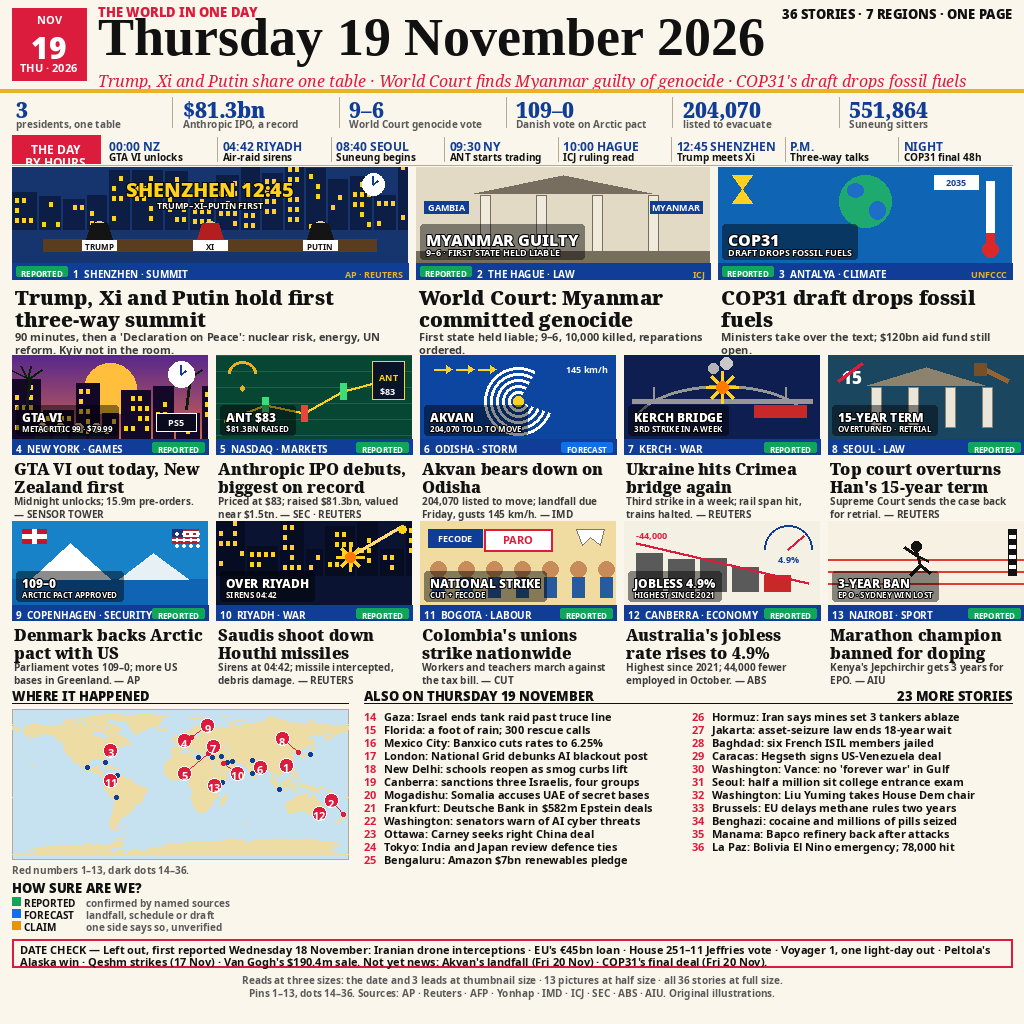
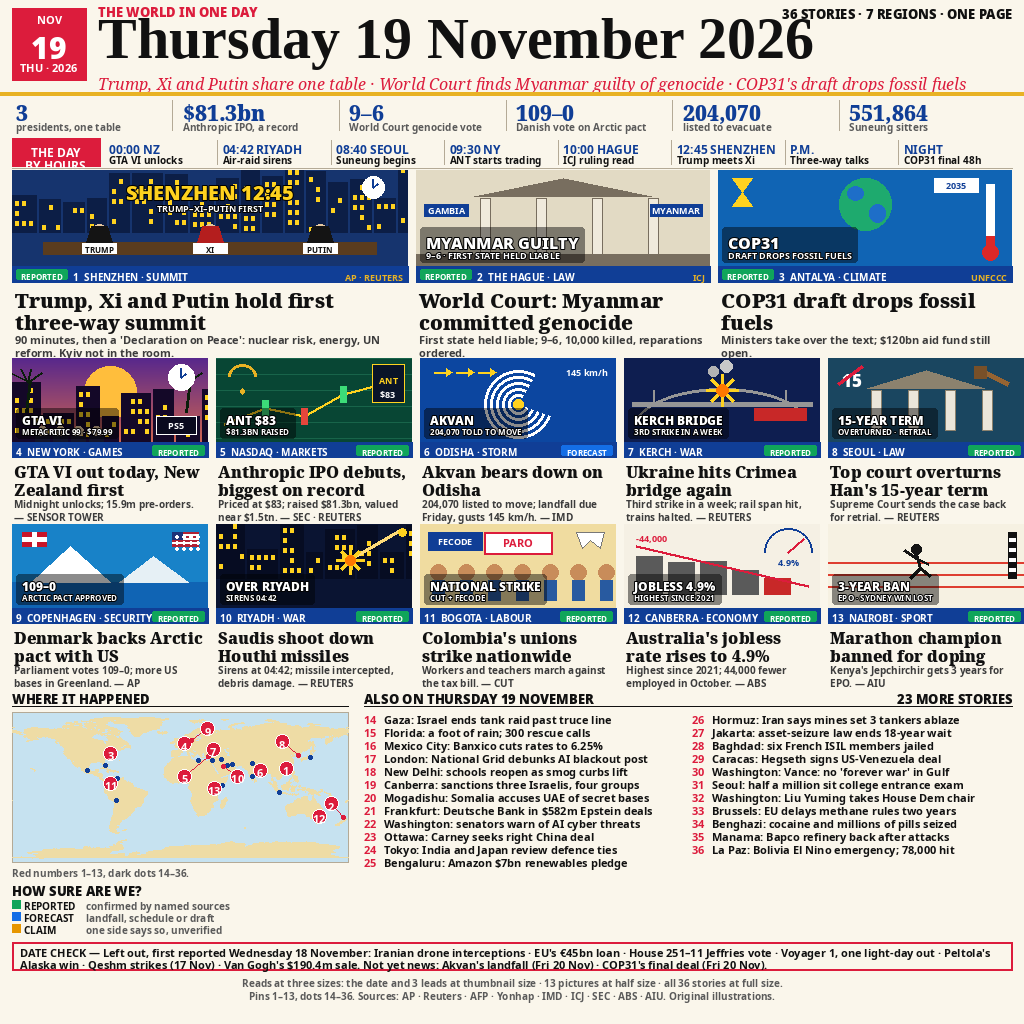
v12: masthead date 4/5 of v10 (Liberation Serif Bold 58px), masthead band 0-95, all bands shifted +3 from v11

Changed region(s): [[0.0, 0.0, 1.0, 1.0]]

diff --git a/draw.py b/draw.py
@@ -1,12 +1,13 @@
 #!/usr/bin/env python3
-"""news-image-20261119 v11: 36 stories, newspaper front page after the top 1.
+"""news-image-20261119 v12: 36 stories, newspaper front page after the top 1.
 Draws entry.png (1024x1024, deterministic) from world.geo.json only.
-v11 vs v10: masthead date shrunk to 3/4 (user order 2026-11-20 15:36 WIB:
-"Perkecil ke 3/4. Untuk Thursday") — LiberationSerif-Bold 72px -> 54px,
-measured 667px wide (was 889px). Masthead band back to 0-92 (kicker y 3,
-title drawn at y 6, red deck line y 69, gold rule 89); every band below
-shifted -15px (stats 93, timeline 135, heroes 167, smalls 355, map 687, date
-check 939, footer 973, ending ~996).
+v12 vs v11: user said "No no no, balikan lagi ke yang sebelumnya. Untuk font
+Thursday kita perkecil jadi 4/5" — revert the v11 shrink; Thursday font is
+4/5 of v10's 72px = 57.6 -> 58px LiberationSerif-Bold (Times, same face as
+top 1), measured 716px wide (v10: 889px, v11: 667px). Masthead band 0-95
+(kicker y 3, title drawn at y 6, red deck line y 72, gold rule 92); every
+band below shifted +3px from v11 (stats 96, timeline 138, heroes 170, smalls
+358, map 690, date check 942, footer 976, ending ~999).
 Run: python3 draw.py  -> writes entry.png in this directory."""
 import json
 import math
@@ -35,7 +36,7 @@ def font(name, size, base=FD):
     return ImageFont.truetype(os.path.join(base, name), size)
 
 
-F_TITLE = font("LiberationSerif-Bold.ttf", 54, FLIB)
+F_TITLE = font("LiberationSerif-Bold.ttf", 58, FLIB)
 F_EYE = font("NotoSans-Black.ttf", 13, FNOTO)
 F_DECKLINE = font("NotoSerif-Italic.ttf", 16, FNOTO)
 F_DATE = font("NotoSans-Black.ttf", 30, FNOTO)
@@ -627,45 +628,45 @@ def main():
     img = Image.new("RGB", (W, H), PAPER)
     d = ImageDraw.Draw(img)
 
-    # ---- masthead 0-92: date in the top-1 face (Liberation Serif Bold = Times) ----
+    # ---- masthead 0-95: date in the top-1 face (Liberation Serif Bold = Times) ----
     d.rectangle([12, 8, 86, 80], fill=RED)
     d.text((49, 12), "NOV", font=F_DATE2, fill="white", anchor="ma")
     d.text((49, 26), "19", font=F_DATE, fill="white", anchor="ma")
     d.text((49, 60), "THU \u00b7 2026", font=F_DATE2, fill="white", anchor="ma")
     d.text((98, 3), "THE WORLD IN ONE DAY", font=F_EYE, fill=RED)
     d.text((98, 6), "Thursday 19 November 2026", font=F_TITLE, fill=INK)
-    d.text((98, 69), "Trump, Xi and Putin share one table \u00b7 World Court finds "
+    d.text((98, 72), "Trump, Xi and Putin share one table \u00b7 World Court finds "
            "Myanmar guilty of genocide \u00b7 COP31's draft drops fossil fuels",
            font=F_DECKLINE, fill=RED)
     d.text((1012, 5), "36 STORIES \u00b7 7 REGIONS \u00b7 ONE PAGE",
            font=F_EYE, fill=INK, anchor="ra")
-    d.rectangle([0, 89, W, 92], fill=GOLD)
+    d.rectangle([0, 92, W, 95], fill=GOLD)
 
-    # ---- big-numbers strip 93-131 ----
+    # ---- big-numbers strip 96-134 ----
     sw6 = (W - 24) / 6.0
     for si, (val, cap) in enumerate(STATS):
         sx = 12 + si * sw6
         if si > 0:
-            d.line([sx - 6, 97, sx - 6, 127], fill=RULE, width=1)
-        d.text((sx + 4, 95), val, font=F_STATB, fill=NAVY)
-        d.text((sx + 4, 117), cap, font=F_STATC, fill=GREY)
+            d.line([sx - 6, 100, sx - 6, 130], fill=RULE, width=1)
+        d.text((sx + 4, 98), val, font=F_STATB, fill=NAVY)
+        d.text((sx + 4, 120), cap, font=F_STATC, fill=GREY)
 
-    # ---- THE DAY BY HOURS timeline 135-163 ----
-    d.rectangle([12, 135, 100, 163], fill=RED)
-    d.text((56, 141), "THE DAY", font=F_TTIME, fill="white", anchor="ma")
-    d.text((56, 154), "BY HOURS", font=F_TTIME, fill="white", anchor="ma")
+    # ---- THE DAY BY HOURS timeline 138-166 ----
+    d.rectangle([12, 138, 100, 166], fill=RED)
+    d.text((56, 144), "THE DAY", font=F_TTIME, fill="white", anchor="ma")
+    d.text((56, 157), "BY HOURS", font=F_TTIME, fill="white", anchor="ma")
     bx = 104
     bw = (W - 12 - bx) / 8.0
     for i, (t, txt) in enumerate(TIMELINE):
         cx = bx + i * bw
         if i > 0:
-            d.line([cx, 137, cx, 161], fill=RULE, width=1)
-        d.text((cx + 5, 138), t, font=F_TTIME, fill=NAVY)
-        d.text((cx + 5, 150), txt, font=F_TTEXT, fill=INK)
-    d.line([12, 165, W - 12, 165], fill=RULE, width=1)
+            d.line([cx, 140, cx, 164], fill=RULE, width=1)
+        d.text((cx + 5, 141), t, font=F_TTIME, fill=NAVY)
+        d.text((cx + 5, 153), txt, font=F_TTEXT, fill=INK)
+    d.line([12, 168, W - 12, 168], fill=RULE, width=1)
 
-    # ---- heroes 167-349: lead 396 wide, rails 294 (hierarchy, not equal thirds) ----
-    hy = 167
+    # ---- heroes 170-352: lead 396 wide, rails 294 (hierarchy, not equal thirds) ----
+    hy = 170
     hws = [396, 294, 294]
     for i, (num, reg, topic, src, status, head, deck, big, small, key) in enumerate(FRONT[:3]):
         hw = hws[i]
@@ -696,14 +697,14 @@ def main():
             d.text((cx + 3, hy + 116 + len(lines) * 22 + 2 + j * 13),
                    ln, font=F_DECK, fill=(60, 60, 60))
 
-    # ---- smalls 355-681 (2 rows x 5, image 196x84) ----
+    # ---- smalls 358-684 (2 rows x 5, image 196x84) ----
     sw_ = 196
     for r in range(2):
         for c in range(5):
             k = 3 + r * 5 + c
             num, reg, topic, src, status, head, deck, big, small, key = FRONT[k]
             cx = 12 + c * (sw_ + 8)
-            cy = 355 + r * 166
+            cy = 358 + r * 166
             im = art_image(key, sw_, 84)
             idd = ImageDraw.Draw(im)
             art_text(im, idd, 0, 0, sw_, 84, big, small, F_LBL2, F_LBL2_S)
@@ -723,8 +724,8 @@ def main():
                 d.text((cx + 2, cy + 102 + len(lines) * 18 + 1 + j * 13),
                        ln, font=F_DECK_S, fill=(60, 60, 60))
 
-    # ---- map + also 687-927 (map taller, also-list roomier) ----
-    my = 687
+    # ---- map + also 690-930 (map taller, also-list roomier) ----
+    my = 690
     d.text((12, my), "WHERE IT HAPPENED", font=F_SEC, fill=INK)
     d.line([12, my + 16, 348, my + 16], fill=INK, width=1)
     d.rectangle([12, my + 22, 348, my + 172], fill=OCEAN, outline=RULE, width=1)
@@ -755,8 +756,8 @@ def main():
         lines = wrap(d, full, F_ALSO, colw - 22, max_lines=1)
         d.text((x + 20, y), lines[0] if lines else "", font=F_ALSO, fill=INK)
 
-    # ---- date check 939-967: thin 2-line band (was a 40px box) ----
-    dy = 939
+    # ---- date check 942-970: thin 2-line band (was a 40px box) ----
+    dy = 942
     d.rectangle([12, dy, 1012, dy + 28], outline=RED, width=2)
     chk = ("DATE CHECK \u2014 Left out, first reported Wednesday 18 November: Iranian drone "
            "interceptions \u00b7 EU's \u20ac45bn loan \u00b7 House 251\u201311 Jeffries vote \u00b7 "
@@ -767,8 +768,8 @@ def main():
     for j, ln in enumerate(clines):
         d.text((20, dy + 3 + j * 12), ln, font=F_DATECHK, fill=INK)
 
-    # ---- footer 973-1003 ----
-    fy = 973
+    # ---- footer 976-1006 ----
+    fy = 976
     d.text((512, fy), "Reads at three sizes: the date and 3 leads at thumbnail size \u00b7 "
            "13 pictures at half size \u00b7 all 36 stories at full size.",
            font=F_FOOT, fill=GREY, anchor="ma")
